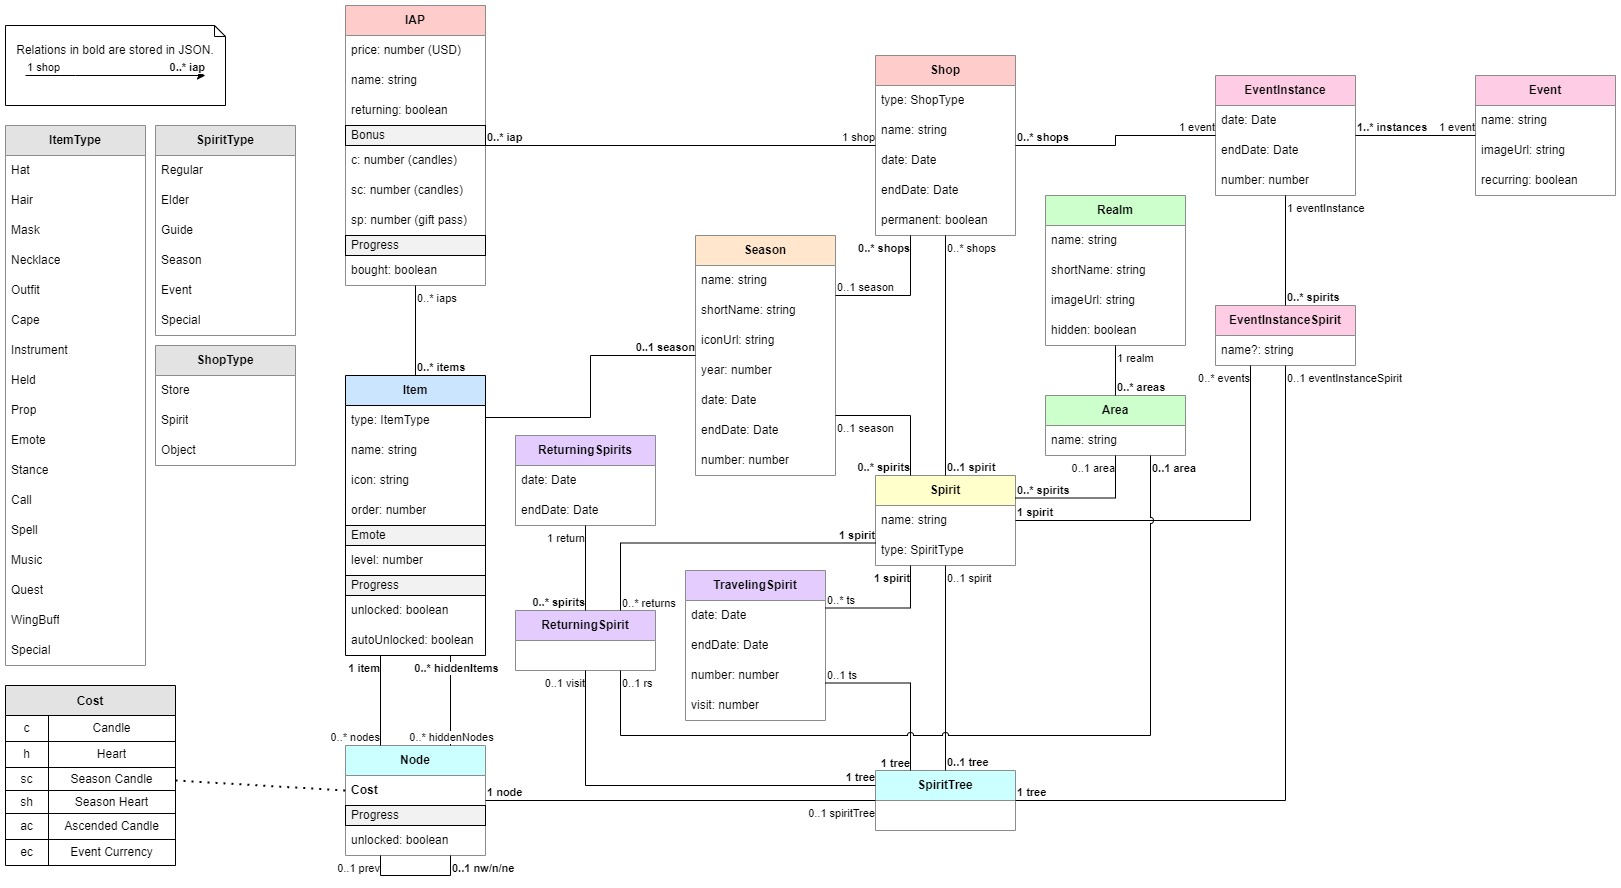
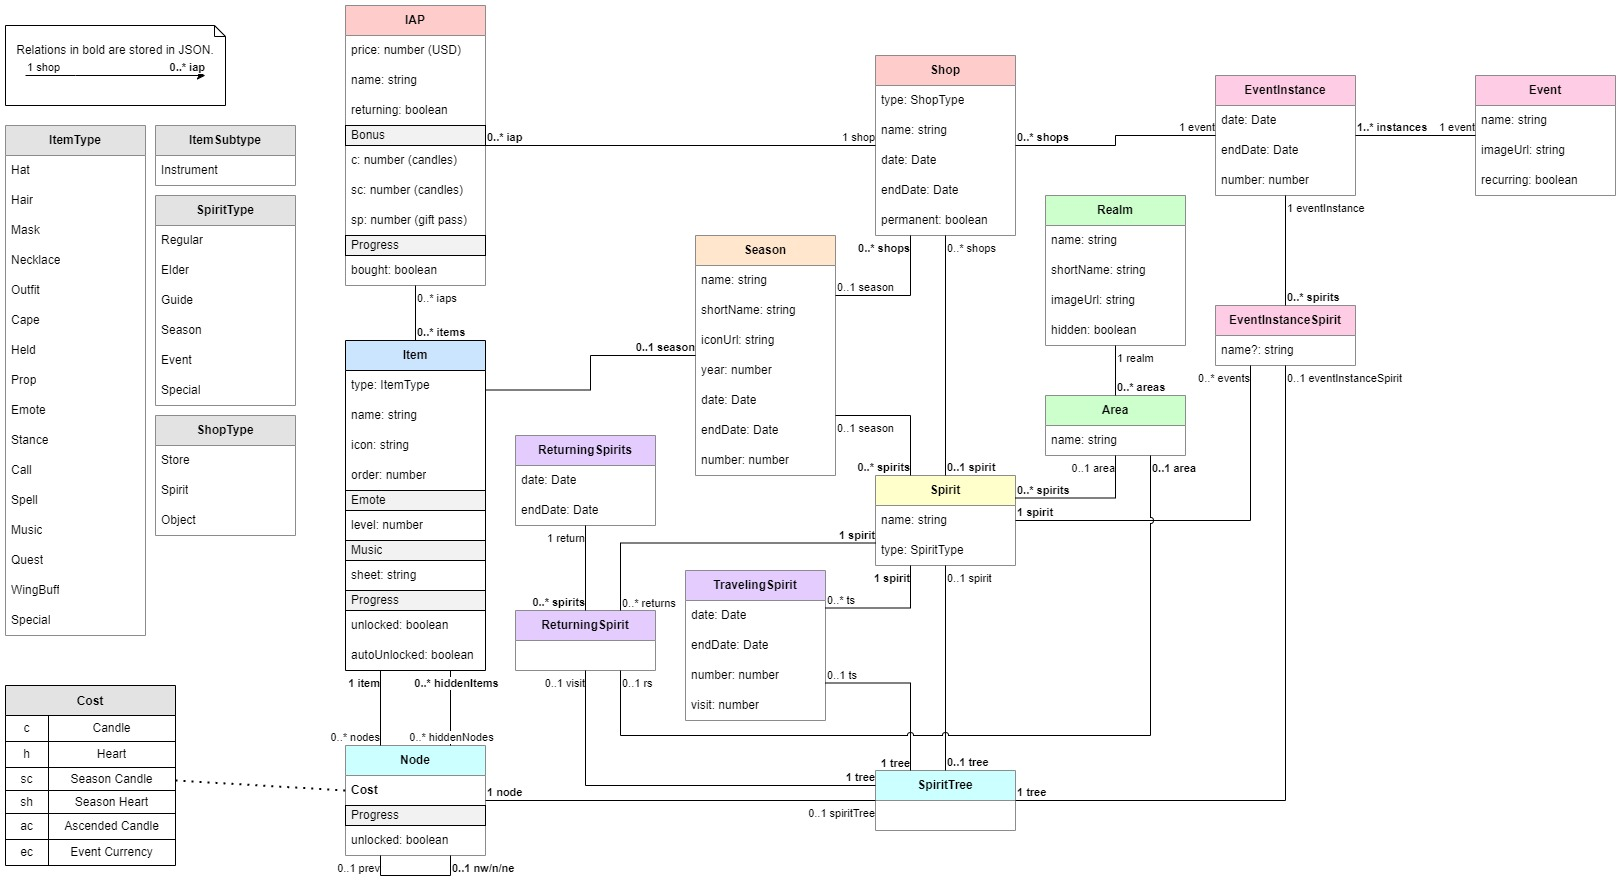
Everything everywhere
Update diagram.
Remove Instrument type. Classify as subtype.
Move item sorting to helper.
Fix closet buttons clipping.

Changed region(s): [[0.2159, 0.3649, 0.3085, 0.7905], [0.0925, 0.152, 0.1851, 0.6081], [0.0, 0.4865, 0.0308, 0.7601]]

diff --git a/src/app/editor/components/editor-order/editor-order.component.ts b/src/app/editor/components/editor-order/editor-order.component.ts
@@ -1,0 +1,79 @@
+import { ChangeDetectionStrategy, Component } from '@angular/core';
+import { ItemHelper } from 'src/app/helpers/item-helper';
+import { IItem, ItemType } from 'src/app/interfaces/item.interface';
+import { DataService } from 'src/app/services/data.service';
+
+@Component({
+  selector: 'app-editor-order',
+  templateUrl: './editor-order.component.html',
+  styleUrls: ['./editor-order.component.less'],
+  changeDetection: ChangeDetectionStrategy.OnPush
+})
+export class EditorOrderComponent {
+  types: Array<string> = Object.keys(ItemType);
+  typeItems: { [key: string]: Array<IItem> } = {};
+  typeSwaps: { [key: string]: Array<{item: IItem, old: number, new: number}> } = {};
+
+  swapping?: IItem;
+
+  constructor(
+    private readonly _dataService: DataService,
+  ) {
+    this.typeItems = {};
+    for (const type in ItemType) { this.typeItems[type] = []; }
+
+    _dataService.itemConfig.items.forEach(item => {
+      let type = item.type;
+      this.typeItems[type].push(item);
+      (item as any)._initialOrder = item.order;
+    });
+
+    for (const type in ItemType) { ItemHelper.sortItems(this.typeItems[type]); }
+    for (const type in ItemType) { this.calculateSwaps(type as ItemType); }
+  }
+
+  swap(type: string, item: IItem): void {
+    // Start
+    if (!this.swapping) {
+      this.swapping = item;
+      return;
+    }
+
+    // Cancel
+    if (item === this.swapping) {
+      this.swapping = undefined;
+      return;
+    }
+
+    // Move this.swapping in front of item.
+    const items = this.typeItems[type];
+    const swappingIndex = items.indexOf(this.swapping);
+    const itemIndex = items.indexOf(item);
+    items.splice(swappingIndex, 1);
+    items.splice(itemIndex > swappingIndex ? itemIndex - 1 : itemIndex, 0, this.swapping);
+    this.swapping = undefined;
+
+    this.calculateSwaps(type as ItemType);
+  }
+
+  calculateSwaps(type: ItemType): void {
+    const items = this.typeItems[type];
+
+    const swaps: Array<{item: IItem, old: number, new: number}> = [];
+    this.typeSwaps[type] = swaps;
+
+    items.forEach((item, i) => {
+      item.order = (item as any)._initialOrder;
+      const itemOrder = item.order || 99999;
+      const prevOrder = items[i - 1]?.order ?? -1;
+      const nextOrder = items[i + 1]?.order ?? 99999;
+
+      if (itemOrder < nextOrder && itemOrder > prevOrder) { return; }
+
+      if (prevOrder >= itemOrder) {
+        item.order = prevOrder + 1;
+        swaps.push({ item, old: itemOrder, new: item.order });
+      }
+    });
+  }
+}

diff --git a/src/app/components/item-unlock/item-unlock.component.ts b/src/app/components/item-unlock/item-unlock.component.ts
@@ -1,4 +1,5 @@
 import { ChangeDetectionStrategy, Component } from '@angular/core';
+import { ItemHelper } from 'src/app/helpers/item-helper';
 import { IIAP } from 'src/app/interfaces/iap.interface';
 import { IItem, ItemType } from 'src/app/interfaces/item.interface';
 import { INode } from 'src/app/interfaces/node.interface';
@@ -35,7 +36,6 @@ export class ItemUnlockComponent {
 
     this._dataService.itemConfig.items.forEach(item => {
       let type = item.type;
-      if (type === ItemType.Instrument) { type = ItemType.Held; }
       this.typeItems[type].push(item);
     });
 
@@ -43,7 +43,7 @@ export class ItemUnlockComponent {
       const items = this.typeItems[type];
       if (type === ItemType.Emote) {
         const levelMap = new Map<string, Array<IItem>>();
-        const levels = items.filter(v => v.level === 1).sort((a, b) => (a.order ?? 99999) - (b.order ?? 99999)).map(v => {
+        const levels = items.filter(v => v.level === 1).sort(ItemHelper.sorter).map(v => {
           const arr = [v];
           levelMap.set(v.name, arr);
           return arr;
@@ -55,7 +55,7 @@ export class ItemUnlockComponent {
 
         this.typeItems[type] = levels.flat();
       } else {
-        items.sort((a, b) => (a.order ?? 99999) - (b.order ?? 99999));
+        ItemHelper.sortItems(items);
       }
     }
   }

diff --git a/src/app/components/outfit-request/closet/closet.component.html b/src/app/components/outfit-request/closet/closet.component.html
@@ -2,21 +2,22 @@
 
 <div class="sky-card">
   <div class="sky-card-header">
-    <h2 class="h3 mb-0">{{ requesting ? 'Sky outfit request' : 'Sky closet' }}</h2>
-    <div class="btns-top" *ngIf="!requesting">
+    <h2 class="h3 mb-0 title">{{ requesting ? 'Sky outfit request' : 'Sky closet' }}</h2>
+    <h2 class="h3 mb-0 title-small">&nbsp;</h2>
+    <div class="btns-top btns-top-closet" *ngIf="!requesting">
       <a class="button" [routerLink]="'/outfit-request/collage'">
         <mat-icon class="menu-icon">photo</mat-icon>
-        <span class="menu-label">Make collage</span>
+        <span class="menu-label">Collage</span>
       </a>
       <a class="button" href="/outfit-request/request">
         <mat-icon class="menu-icon">add</mat-icon>
-        <span class="menu-label">Create request</span>
+        <span class="menu-label">Request</span>
       </a>
     </div>
-    <div class="btns-top" *ngIf="requesting">
+    <div class="btns-top btn-top-request" *ngIf="requesting">
       <a class="button" href="/outfit-request/closet">
         <mat-icon class="menu-icon">checkroom</mat-icon>
-        <span class="menu-label">Go to closet</span>
+        <span class="menu-label">Closet</span>
       </a>
       <a class="button" href="/">
         <mat-icon class="menu-icon">home</mat-icon>

diff --git a/src/app/components/item-field-guide/item-field-guide.component.ts b/src/app/components/item-field-guide/item-field-guide.component.ts
@@ -1,5 +1,6 @@
 import { ChangeDetectionStrategy, Component } from '@angular/core';
 import { ActivatedRoute, ParamMap, Params, Router } from '@angular/router';
+import { ItemHelper } from 'src/app/helpers/item-helper';
 import { INavigationTarget, NavigationHelper } from 'src/app/helpers/navigation-helper';
 import { IItem, ItemType } from 'src/app/interfaces/item.interface';
 import { DataService } from 'src/app/services/data.service';
@@ -40,7 +41,6 @@ export class ItemFieldGuideComponent {
   onQueryParamsChanged(query: ParamMap) {
     const type = query.get('type') as ItemType;
     this.type = type as ItemType || ItemType.Outfit;
-    if (type === ItemType.Instrument) { this.type = ItemType.Held; }
     this.loadedTypes[this.type] = true;
 
     this.highlight = query.get('item') || undefined;
@@ -71,7 +71,6 @@ export class ItemFieldGuideComponent {
       if (!item.previewUrl) { return; }
       const nav = NavigationHelper.getItemSource(item);
       this.typeItems[item.type].push({ item, nav });
-      if (item.type === ItemType.Instrument) { this.typeItems[ItemType.Held].push({ item, nav }); }
     });
 
     // Sort by order.

diff --git a/src/app/components/outfit-request/closet/closet.component.ts b/src/app/components/outfit-request/closet/closet.component.ts
@@ -8,6 +8,7 @@ import { SearchService } from 'src/app/services/search.service';
 import { HttpClient } from '@angular/common/http';
 import { SubscriptionLike, lastValueFrom } from 'rxjs';
 import { EventService } from 'src/app/services/event.service';
+import { ItemHelper } from 'src/app/helpers/item-helper';
 
 interface ISelection { [guid: string]: IItem; }
 interface IOutfitRequest { a?: string; r: string; y: string; g: string; b: string; };
@@ -450,7 +451,6 @@ export class ClosetComponent implements OnDestroy {
     // Add items to closets.
     for (const item of this._dataService.itemConfig.items) {
       let type = item.type;
-      if (type === 'Instrument') { type = ItemType.Held; }
       if (!this.items[type as string]) { continue; }
 
       this.items[type as string].push(item);
@@ -460,7 +460,7 @@ export class ClosetComponent implements OnDestroy {
 
     // Sort items by order.
     for (const type of this.itemTypes) {
-      this.items[type as string].sort((a, b) => (a.order || 99999) - (b.order || 99999));
+      ItemHelper.sortItems(this.items[type as string]);
     }
 
     if (this.shouldSync) {

diff --git a/src/app/components/items/items.component.ts b/src/app/components/items/items.component.ts
@@ -1,5 +1,6 @@
 import { AfterViewInit, ChangeDetectionStrategy, ChangeDetectorRef, Component, ElementRef, OnDestroy, ViewChild } from '@angular/core';
 import { ActivatedRoute, ParamMap, Router, convertToParamMap } from '@angular/router';
+import { ItemHelper } from 'src/app/helpers/item-helper';
 import { INavigationTarget, NavigationHelper } from 'src/app/helpers/navigation-helper';
 import { IItem, ItemType } from 'src/app/interfaces/item.interface';
 import { DataService } from 'src/app/services/data.service';
@@ -159,14 +160,11 @@ export class ItemsComponent implements AfterViewInit, OnDestroy {
         return;
       }
       addItem(item.type, item);
-
-      // Subtypes.
-      if (item.type === ItemType.Instrument) { addItem(ItemType.Held, item); }
     });
 
     // Sort by order.
     for (const type in ItemType) {
-      this.typeItems[type].sort((a, b) => (a.order ?? 99999) - (b.order ?? 99999));
+      ItemHelper.sortItems(this.typeItems[type]);
     }
   }
 

diff --git a/src/app/editor/editor-routing.module.ts b/src/app/editor/editor-routing.module.ts
@@ -5,6 +5,7 @@ import { EditorTravelingSpiritComponent } from './components/editor-traveling-sp
 import { EditorTreeComponent } from './components/editor-tree/editor-tree.component';
 import { EditorShopComponent } from './components/editor-shop/editor-shop.component';
 import { EditorItemComponent } from './components/editor-item/editor-item.component';
+import { EditorOrderComponent } from './components/editor-order/editor-order.component';
 
 const routes: Routes = [
   { path: '', component: EditorDashboardComponent },
@@ -12,6 +13,7 @@ const routes: Routes = [
   { path: 'tree', component: EditorTreeComponent },
   { path: 'shop', component: EditorShopComponent },
   { path: 'item', component: EditorItemComponent },
+  { path: 'order', component: EditorOrderComponent },
 ];
 
 @NgModule({

diff --git a/src/app/editor/editor.module.ts b/src/app/editor/editor.module.ts
@@ -8,6 +8,7 @@ import { EditorTreeComponent } from './components/editor-tree/editor-tree.compon
 import { EditorShopComponent } from './components/editor-shop/editor-shop.component';
 import { EditorItemComponent } from './components/editor-item/editor-item.component';
 import { MatIconModule } from '@angular/material/icon';
+import { EditorOrderComponent } from './components/editor-order/editor-order.component';
 
 @NgModule({
   declarations: [
@@ -15,7 +16,8 @@ import { MatIconModule } from '@angular/material/icon';
     EditorTravelingSpiritComponent,
     EditorTreeComponent,
     EditorShopComponent,
-    EditorItemComponent
+    EditorItemComponent,
+    EditorOrderComponent
   ],
   imports: [
     CommonModule,

diff --git a/src/app/helpers/navigation-helper.ts b/src/app/helpers/navigation-helper.ts
@@ -90,7 +90,6 @@ export class NavigationHelper {
       case 'Outfit': type = 'Outfits'; break;
       case 'Shoes': type = 'Shoes'; break;
       case 'Cape': type = 'Capes'; break;
-      case 'Instrument': type = 'Props'; break;
       case 'Held': type = 'Props'; break;
       case 'Prop': type = 'Props'; break;
       default: type = '';
@@ -109,7 +108,7 @@ export class NavigationHelper {
     }
 
     // Jump to preview section.
-    url.hash = item.type === 'Held' || item.type === 'Instrument' ? 'Held_Props_Display'
+    url.hash = item.type === 'Held' ? 'Held_Props_Display'
       : item.type === 'Prop' ? 'Placeable_Props_Display' : 'Display';
 
     return url.toString();

diff --git a/src/app/interfaces/item.interface.ts b/src/app/interfaces/item.interface.ts
@@ -62,9 +62,7 @@ export enum ItemType {
   Shoes = 'Shoes',
   /** All cosmetics in the cape category. */
   Cape = 'Cape',
-  /** All musical instruments in the held category. */
-  Instrument = 'Instrument',
-  /** All non-instrument items in the held category. */
+  /** All items in the held category. */
   Held = 'Held',
   /** All items in the chair category. */
   Prop = 'Prop',
@@ -84,6 +82,10 @@ export enum ItemType {
   WingBuff = 'WingBuff',
   /** Other special (non-)items such as candle blessings. */
   Special = 'Special'
-}
+};
+
+export enum ItemSubtype {
+  Instrument = 'Instrument'
+};
 
 export type ItemGroup = 'Elder' | 'Season' | 'SeasonPass' | 'Ultimate';

diff --git a/src/app/editor/components/editor-order/editor-order.component.html b/src/app/editor/components/editor-order/editor-order.component.html
@@ -1,0 +1,16 @@
+<ng-container *ngFor="let type of types">
+  <div class="items" [class.swapping]="swapping">
+    <ng-container *ngFor="let item of typeItems[type]">
+      <div class="item" [class.highlight]="swapping?.guid === item.guid" (click)="swap(type, item)">
+        <div class="item-image">
+          <img class="item-icon" [src]="item.icon" [alt]="item.name">
+        </div>
+      </div>
+    </ng-container>
+  </div>
+  <div>
+    <ng-container *ngFor="let swap of typeSwaps[type]">
+      <div>{{ swap.item.name }} | {{ swap.old }} | {{ swap.new }}</div>
+    </ng-container>
+  </div>
+</ng-container>

diff --git a/src/app/editor/components/editor-order/editor-order.component.less b/src/app/editor/components/editor-order/editor-order.component.less
@@ -1,0 +1,31 @@
+
+.items {
+  display: grid;
+  grid-template-columns: repeat(6, 1fr);
+  width: fit-content;
+  //flex-wrap: wrap;
+  gap: 4px;
+  margin-bottom: 10px;
+}
+
+.item {
+  display: inline-block;
+  vertical-align: top;
+  background: var(--color-background);
+  border-radius: var(--border-radius);
+  border: 3px solid var(--color-border);
+  cursor: pointer;
+}
+
+.highlight {
+  border-width: 3px !important;
+}
+
+.item-icon {
+  width: var(--item-size);
+  height: var(--item-size);
+}
+
+.swapping .item:hover {
+  border-left-color: #0f0;
+}
